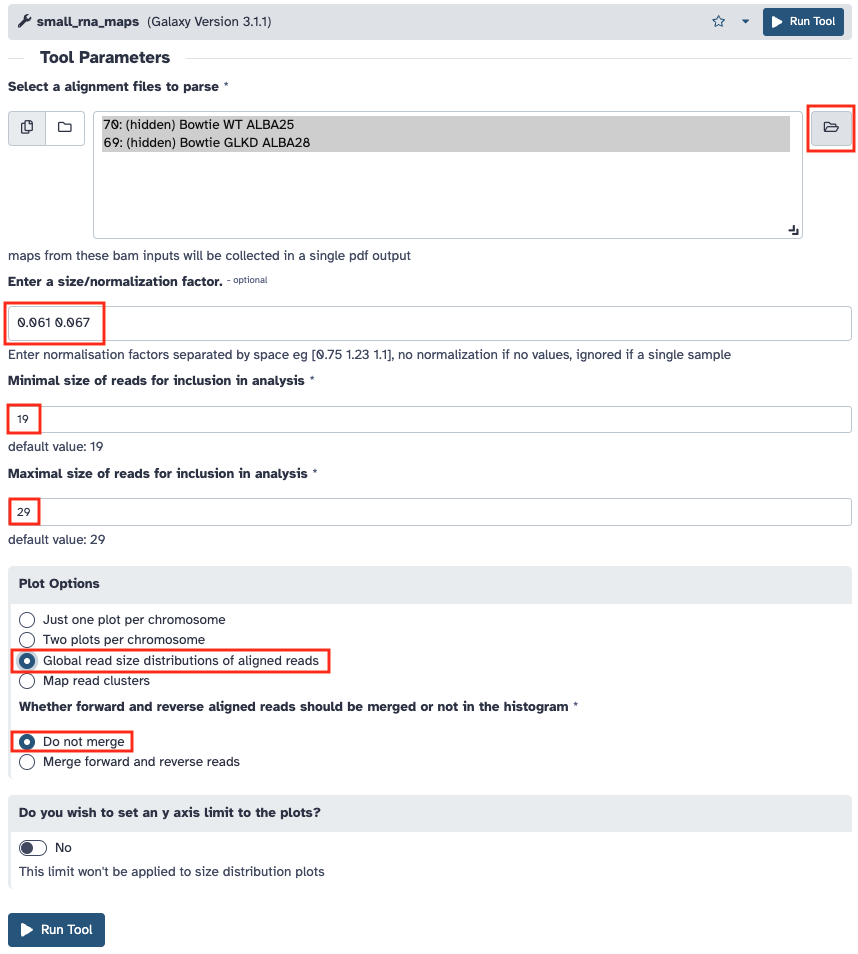
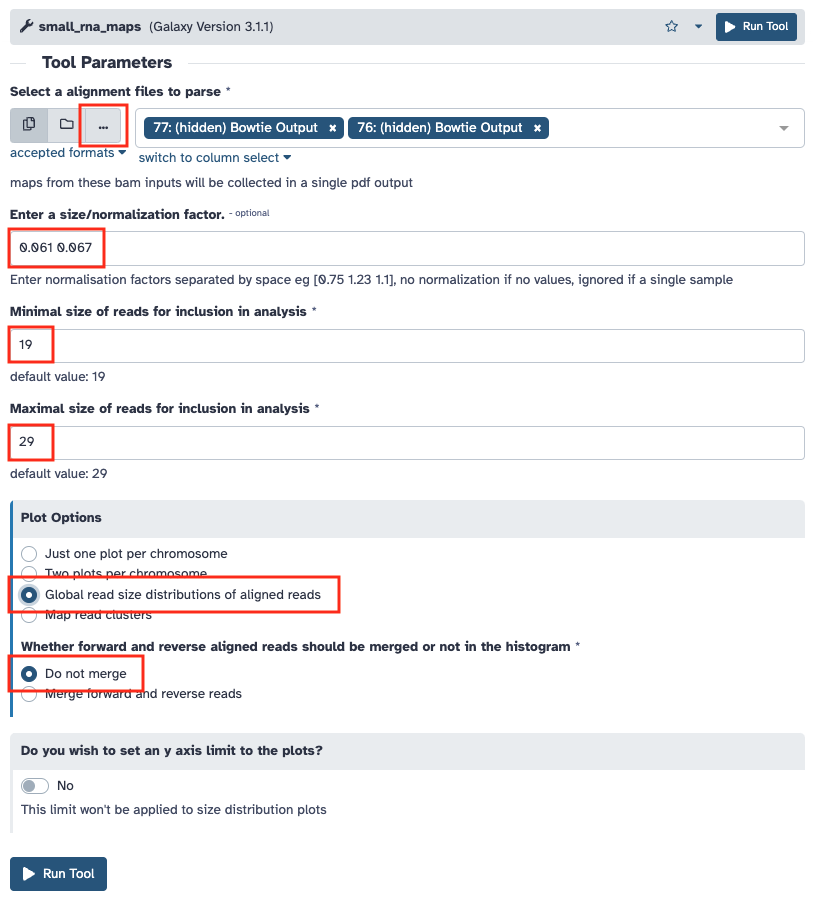
Documentation update

Changed region(s): [[0.0, 0.0, 1.0, 0.9945], [0.9225, 0.2175, 0.9533, 0.2486]]

diff --git a/docs/srna.md b/docs/srna.md
@@ -177,7 +177,7 @@ Lancez l’alignement une fois que vous avez déterminé les paramètres optimau
 
 ![Alignement sur PLacZ](img/srna/bowtie_placz.png "Alignement sur PLacZ")
 
-!!! hint ""
+!!! note ""
 
 	La sortie standard et l’erreur standard sont accessibles dans Galaxy. Pour cela vous devez cliquer dans votre jeu de données sur l’icône d’information (i). La page qui s’affiche vous donne accès aux paramètres de lancement de l’outil utilisé et aux différentes sorties produites.
 
@@ -189,11 +189,15 @@ Lancez l’alignement une fois que vous avez déterminé les paramètres optimau
 
 Vous allez maintenant comparer la distribution des petits ARN sur PLacZ entre les conditions WT et GLKD.
 
-Vous allez réaliser des graphiques et quantifier la répartition des 2 types de petits ARN (siRNA et piRNA) alignés sur la séquence de PLacZ à partir des lectures de vos différents échantillons. Pour cela vous utiliserez l’outil ***small_rna_maps*** sur chacun de vos fichiers d’alignement en prenant soin d’indiquer pour chacun le facteur de normalisation permettant de corriger les lectures calculés dans le [tableau partagé](https://docs.google.com/spreadsheets/d/1aOcIwFhsY8qtf-cb1hz1NWUmFlfvU1sVO73e-tBzybs/edit?gid=243437883).
+Vous allez réaliser des graphiques et quantifier la répartition des 2 types de petits ARN (siRNA et piRNA) alignés sur la séquence de PLacZ à partir des lectures de vos différents échantillons. 
 
-!!! hint ""
+La première étape consiste à extraire les deux alignements que vous avez obtenus à l'étape précédente de la collection où ils se trouvent.
 
-	Vous pouvez accéder à un élément d'une collection en cliquant sur l'icône de dossier "Browse dataset" ouvert sur la droite du sélecteur de fichier.
+Pour cela, utiliser l'outil "Extract dataset" en sélectionnant les 2 fichiers d'alignement l'un après l'autre grâce à leur numéro d'index dans la collection.
+	
+![Accéder aux éléments d'une collection](img/srna/browse_collection.png "Accéder aux éléments d'une collection")
+
+Puis vous utiliserez l’outil ***small_rna_maps*** sur chacun de vos fichiers d’alignement en prenant soin d’indiquer pour chacun le facteur de normalisation permettant de corriger les lectures calculés dans le [tableau partagé](https://docs.google.com/spreadsheets/d/1aOcIwFhsY8qtf-cb1hz1NWUmFlfvU1sVO73e-tBzybs/edit?gid=243437883). 
 
 ![Distribution des lectures par taille](img/srna/small_rna_maps.png "Distribution des lectures par taille")
 
